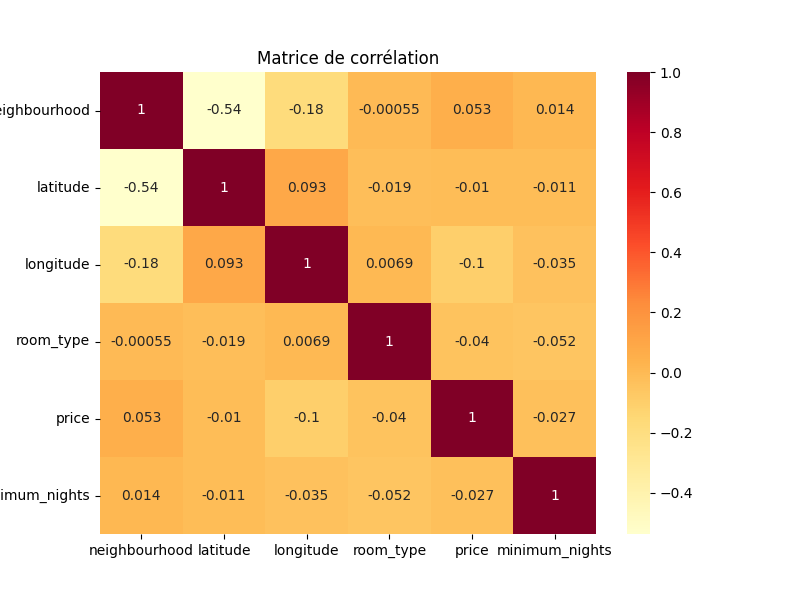
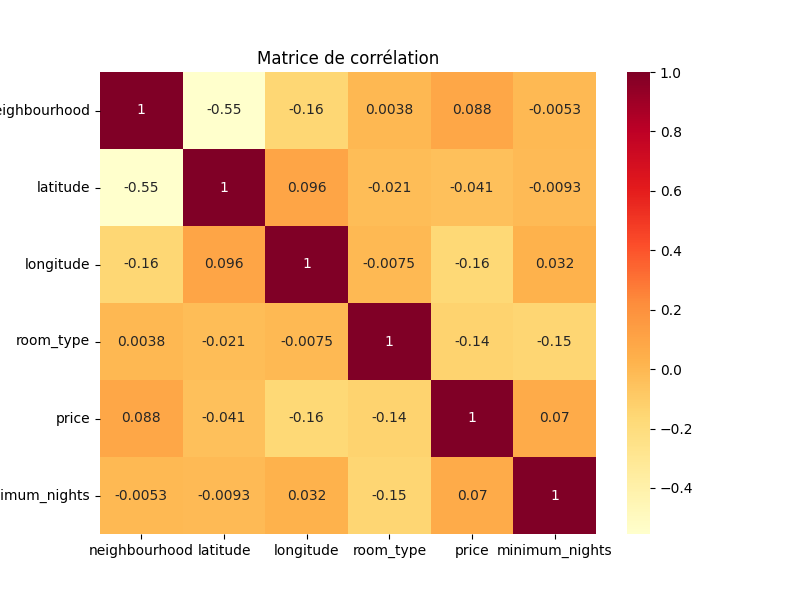
feat: outlier removal

diff --git a/src/training.py b/src/training.py
@@ -41,9 +41,30 @@ class Trainner():
     
     # retirer les colonnes non utilisées
     self.data = self.data[colomns_used]
-      
+    
     # retirer les lignes avec le price manquant
     self.data = self.data.dropna(subset=['price'])
+
+    # Identifier les valeurs aberrantes pour le prix
+    price_q1 = self.data['price'].quantile(0.25)
+    price_q3 = self.data['price'].quantile(0.75)
+    price_iqr = price_q3 - price_q1
+    price_lower_bound = price_q1 - 1.5 * price_iqr
+    price_upper_bound = price_q3 + 1.5 * price_iqr
+    
+     # Supprimer les valeurs aberrantes pour le prix
+    self.data = self.data[(self.data['price'] >= price_lower_bound) & (self.data['price'] <= price_upper_bound)]
+    
+    # Identifier les valeurs aberrantes pour le nombre de nuits minimum
+    min_nights_q1 = self.data['minimum_nights'].quantile(0.25)
+    min_nights_q3 = self.data['minimum_nights'].quantile(0.75)
+    min_nights_iqr = min_nights_q3 - min_nights_q1
+    min_nights_lower_bound = min_nights_q1 - 1.5 * min_nights_iqr
+    min_nights_upper_bound = min_nights_q3 + 1.5 * min_nights_iqr
+    
+    # Supprimer les valeurs aberrantes pour le nombre de nuits minimum
+    self.data = self.data[(self.data['minimum_nights'] >= min_nights_lower_bound) & (self.data['minimum_nights'] <= min_nights_upper_bound)]
+    
     self.data.info()
 
   # Normalize data
